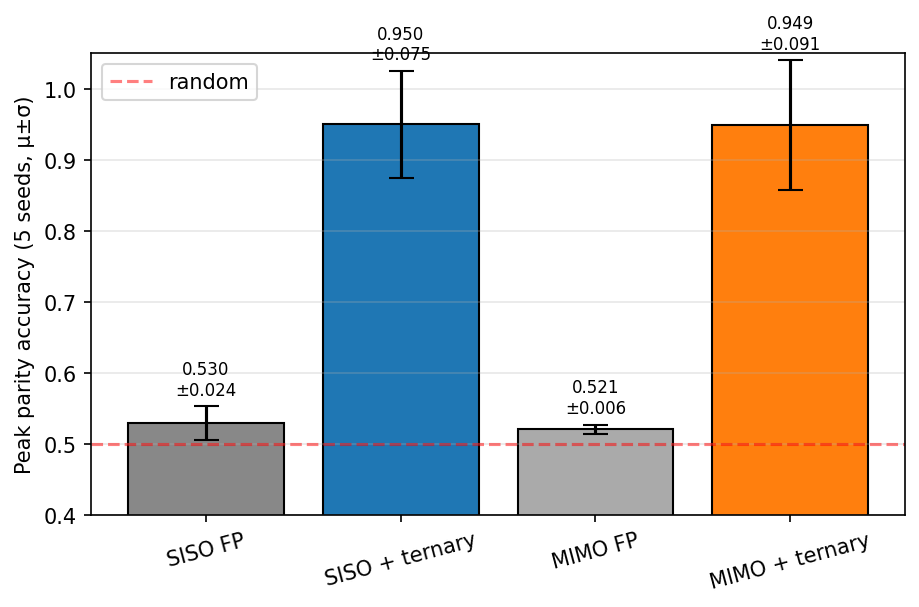
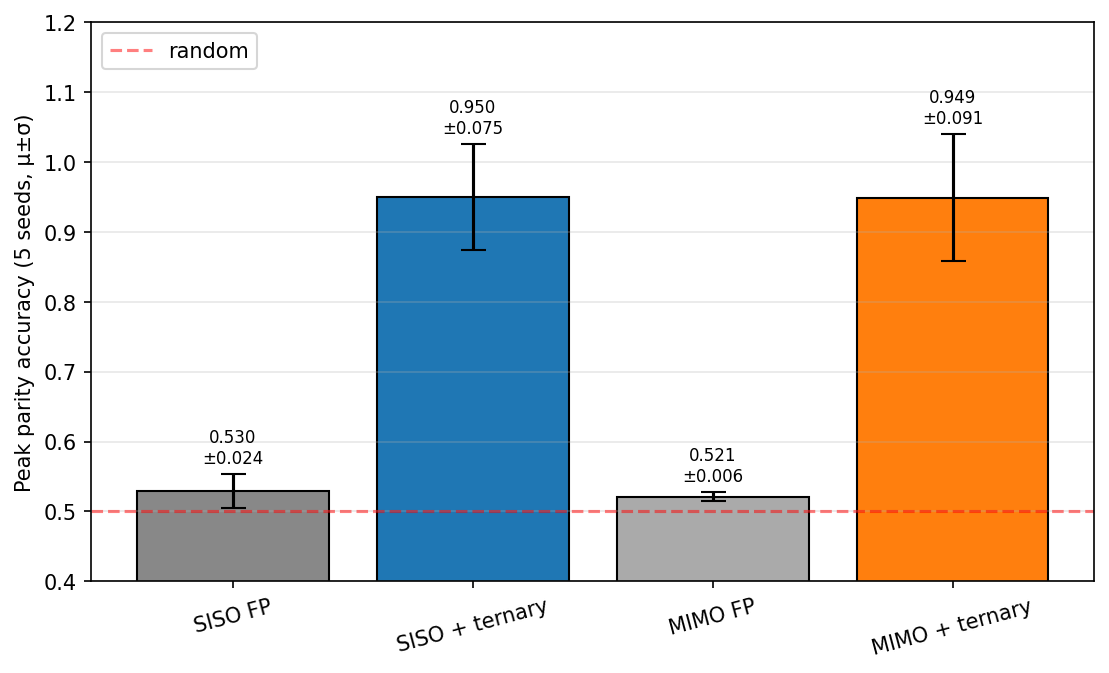
Fix figures_clean layout: legend overlap, annotation overflow, x-tick collision
User-reported issues:
  fig2: annotations (0.949 ±0.091) overflowed top of plot box (ylim=1.05)
  fig3: x-axis labels visually collided ("30M @ 480M tok30M @ 480M tok")
  fig6: legend at "lower right" hid the d=512 MIMO+ternary (0.98) and
        SISO+ternary (0.86) bars - the figure's main result

Fixes:
  fig2: ylim 1.05 -> 1.20 to keep all annotations inside the plot box
  fig3: x-axis labels split onto two lines ("30M\n@ 480M tok"), wider figure
  fig6: legend moved OUTSIDE plot (bbox_to_anchor=(1.02, 1.0)) on the right;
        ylim raised to 1.15 for headroom; figure widened to 10.5"
  fig9: same legend-outside treatment as fig6 for consistency
  All: tight_layout() added

Output: PNG only (JPG removed per user request).
generate_clean_figures.py updated. results/figures_clean/ now has 9 PNGs only.

Changed region(s): [[0.0, 0.0297, 1.0, 0.9786]]

diff --git a/src/evaluation/generate_clean_figures.py b/src/evaluation/generate_clean_figures.py
@@ -25,13 +25,11 @@ _tables = _root / "results" / "tables"
 
 
 def _save(fig, name):
-    """Save figure as both PNG and JPG without title baked in."""
+    """Save figure as PNG only (caption-free) for Word manual captioning."""
     png = _figs / f"{name}.png"
-    jpg = _figs / f"{name}.jpg"
     fig.savefig(png, dpi=150, bbox_inches="tight")
-    fig.savefig(jpg, dpi=150, bbox_inches="tight", format="jpg")
     plt.close(fig)
-    print(f"  saved {png.name} + {jpg.name}")
+    print(f"  saved {png.name}")
 
 
 def fig1_baseline_throughput():
@@ -74,20 +72,22 @@ def fig2_parity_ternary_vs_fp():
     stds = [np.std(by_config.get(c, [0]), ddof=1) for c in configs]
     colors = ["#888", "#1f77b4", "#aaa", "#ff7f0e"]
 
-    fig, ax = plt.subplots(figsize=(7, 4))
+    fig, ax = plt.subplots(figsize=(7.5, 4.6))
     x = np.arange(len(configs))
     bars = ax.bar(x, means, yerr=stds, capsize=6, color=colors, edgecolor="black")
     ax.set_xticks(x)
     ax.set_xticklabels(labels, rotation=15)
     ax.set_ylabel("Peak parity accuracy (5 seeds, μ±σ)")
     ax.axhline(0.5, color="red", linestyle="--", alpha=0.5, label="random")
-    ax.set_ylim(0.4, 1.05)
-    ax.legend()
+    # Higher ylim to keep "0.949 ±0.091" annotations inside the plot box
+    ax.set_ylim(0.4, 1.20)
+    ax.legend(loc="upper left")
     ax.grid(axis="y", alpha=0.3)
     for bar, m, s in zip(bars, means, stds):
         ax.annotate(f"{m:.3f}\n±{s:.3f}",
                     xy=(bar.get_x() + bar.get_width() / 2, bar.get_height() + s + 0.01),
                     ha="center", va="bottom", fontsize=8)
+    plt.tight_layout()
     _save(fig, "fig2_parity_ternary_vs_fp")
 
 
@@ -106,15 +106,20 @@ def fig3_scaling_curves():
     if not runs:
         return
 
-    fig, ax = plt.subplots(figsize=(6, 4))
+    # Wider figure + rotated labels prevent x-tick overlap
+    fig, ax = plt.subplots(figsize=(7.5, 4.5))
     labels = [r[0] for r in runs]
     ppls = [r[1] for r in runs]
-    ax.bar(labels, ppls, color=["#888", "#aaa", "#ff7f0e", "#d62728"])
+    colors = ["#888", "#aaa", "#ff7f0e", "#d62728"][:len(runs)]
+    ax.bar(labels, ppls, color=colors, edgecolor="black")
     for i, p in enumerate(ppls):
-        ax.annotate(f"{p:.1f}", (i, p), ha="center", va="bottom")
+        ax.annotate(f"{p:.1f}", (i, p), ha="center", va="bottom", fontsize=9)
     ax.set_yscale("log")
-    ax.set_ylabel("WikiText-103 PPL (log)")
+    ax.set_ylabel("WikiText-103 PPL (log, lower = better)")
+    # Compact x labels to reduce overlap risk; rotate as backup
+    ax.set_xticklabels([l.replace(" @ ", "\n@ ") for l in labels], rotation=0, fontsize=9)
     ax.grid(axis="y", alpha=0.3, which="both")
+    plt.tight_layout()
     _save(fig, "fig3_scaling_curves")
 
 
@@ -212,7 +217,9 @@ def fig6_parity_scaling_progression():
             else:
                 means[c].append(np.nan); stds[c].append(np.nan)
 
-    fig, ax = plt.subplots(figsize=(8, 4.5))
+    # Wider figure to hold legend outside the plot area (legend in plot
+    # was overlapping the d=512 MIMO+ternary and SISO+ternary bars)
+    fig, ax = plt.subplots(figsize=(10.5, 4.5))
     x = np.arange(len(sweeps))
     width = 0.2
     for i, (c, label, color) in enumerate(zip(configs, labels, colors)):
@@ -222,9 +229,11 @@ def fig6_parity_scaling_progression():
     ax.set_xticklabels([s[0] for s in sweeps])
     ax.axhline(0.5, color="red", linestyle="--", alpha=0.5, label="random")
     ax.set_ylabel("Peak parity accuracy (5 seeds, μ±σ)")
-    ax.set_ylim(0.4, 1.05)
-    ax.legend(loc="lower right", fontsize=8)
+    ax.set_ylim(0.4, 1.15)
+    # Legend OUTSIDE the plot so the d=512 bars are fully visible
+    ax.legend(loc="upper left", bbox_to_anchor=(1.02, 1.0), fontsize=9)
     ax.grid(axis="y", alpha=0.3)
+    plt.tight_layout()
     _save(fig, "fig6_parity_scaling_progression")
 
 
@@ -383,7 +392,7 @@ def fig9_int4_parity_control():
     mode_labels = ["FP (16-bit)", "INT4 (4-bit)", "ternary (1.58-bit)"]
     colors = ["#bbb", "#7aa6c2", "#ff7f0e"]
 
-    fig, ax = plt.subplots(figsize=(9, 4.5))
+    fig, ax = plt.subplots(figsize=(10, 5))
     x = np.arange(len(archs)); width = 0.25
     for i, (mode, mode_label, color) in enumerate(zip(modes, mode_labels, colors)):
         means, stds = [], []
@@ -401,9 +410,11 @@ def fig9_int4_parity_control():
     ax.axhline(0.5, color="red", linestyle="--", alpha=0.5, label="random")
     ax.set_xticks(x); ax.set_xticklabels(arch_labels)
     ax.set_ylabel("Peak parity accuracy (3 seeds, μ±σ)")
-    ax.set_ylim(0.4, 1.05)
-    ax.legend(loc="upper left", fontsize=9)
+    ax.set_ylim(0.4, 1.15)
+    # Legend outside plot to avoid covering ternary bars
+    ax.legend(loc="upper left", bbox_to_anchor=(1.02, 1.0), fontsize=9)
     ax.grid(axis="y", alpha=0.3)
+    plt.tight_layout()
     _save(fig, "fig9_int4_parity_control")
 
 
